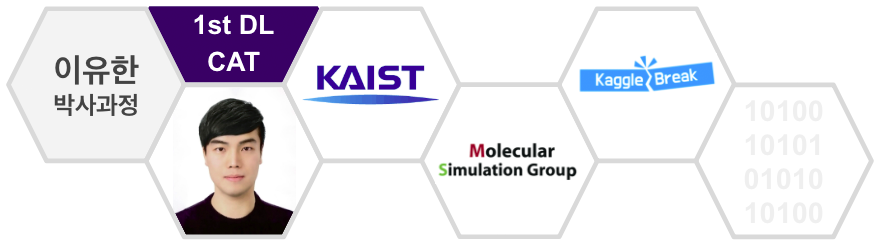
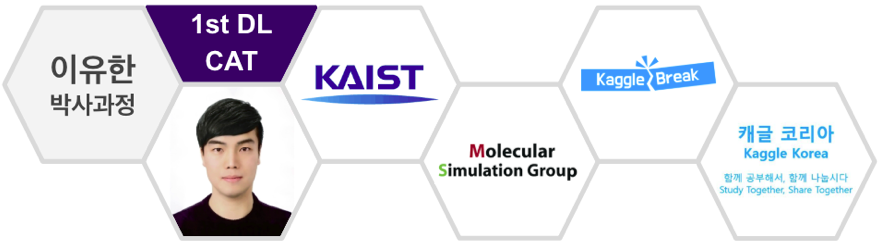
no message

diff --git a/_posts/2018-6-28-ISS_1st_Deep_Learning_Conference_All_Together.md b/_posts/2018-6-28-ISS_1st_Deep_Learning_Conference_All_Together.md
@@ -66,7 +66,7 @@ image: http://tykimos.github.io/warehouse/2018-6-28-ISS_1st_Deep_Learning_Confer
 ![img](http://tykimos.github.io/warehouse/2018-6-28-ISS_1st_Deep_Learning_Together_lyh.png)
 
 #### 연사소개
-현재 KAIST 생명화학공학과에서 박사과정 재학중이며, 전공은 분자 시뮬레이션입니다. 데이터 사이언스, AI를 어디서 배울지 고민하다가 캐글을 알게 된 후, 캐글에 푹 빠져버린 대학원생입니다. 저에게 큰 도움을 준 캐글을 다른 사람들과 함께 하고 싶어 발표자로 참여하게 되었습니다.
+현재 KAIST 생명화학공학과에서 박사과정 재학중이며, 전공은 분자 시뮬레이션입니다. 데이터 사이언스, AI를 어디서 배울지 고민하다가 캐글을 알게 된 후, 캐글에 푹 빠져버린 대학원생입니다. 저에게 큰 도움을 준 캐글을 다른 사람들과 함께 하고 싶어 발표자로 참여하게 되었습니다. 현재 [캐글 코리아](https://www.facebook.com/groups/230717130993727/)을 운영 중에 있습니다.
 
 #### 발표소개
 전세계 데이터를 사랑하는 사람들에게 데이터를 제공하고, 함께 즐길 수 있도록 해주는 캐글을 소개하려고 합니다. 캐글 내 유능한 데이터분석가들의 귀하디 귀한 노하우를 거저!!! 얻을 수 있는 방법을 소개해드릴 겁니다. 또한 자신의 노하우도 거저!!! 나눠주는 방법도 소개해드릴 겁니다. 제 세션에 참석하시는 모든 분들이 캐글러가 되는 게 제 발표 목표입니다! 실제 가입 및 실습을 조금 진행하려고 하니 노트북을 꼭 지참해주세요^^
@@ -76,6 +76,7 @@ image: http://tykimos.github.io/warehouse/2018-6-28-ISS_1st_Deep_Learning_Confer
 
 #### 블로그 및 깃헙
 * 블로그 : 캐글코리아 - [http://kaggle-kr.tistory.com/](http://kaggle-kr.tistory.com/)
+* 유투브 : [https://www.youtube.com/channel/UC--LgKcZVgffjsxudoXg5pQ/?reload=9](https://www.youtube.com/channel/UC--LgKcZVgffjsxudoXg5pQ/?reload=9)
 
 #### 연락처
 * 이메일 : youhanlee@kaist.ac.kr 또는 bshz15@gmail.com
@@ -360,6 +361,8 @@ GTA란 게임을 이용하여 어떻게 주행 데이터를 모으고 학습을 
 
 ![img](http://tykimos.github.io/warehouse/2018-6-28-ISS_1st_Deep_Learning_Together_psm_slide.png)
 
+    MYO의 센서값과 실제 손 모양 이미지를 이용해 GAN모델을 학습시킨다면 이 모델은 MYO의 센서값만으로도 손 모양 이미지를 생성해 낼 수 있을 것 입니다. 이를 이용한다면 많은 분야에 적용하여 사용할 수 있지 않을까요?
+
 #### 발표자료
 (추후 업데이트)
 
@@ -466,13 +469,15 @@ NGLE이라는 QA 전문 회사에서 QA-Test 자동화에 인공지능 적용을
 
 ### 내 손 위의 딥러닝(모바일에 딥러닝 심기)
 ---
-(추후 업데이트)
+![img](http://tykimos.github.io/warehouse/2018-6-28-ISS_1st_Deep_Learning_Together_jmj.png)
 
 #### 연사소개
 안녕하세요, iOS 개발자 미정입니다. ☕를 마시며 하루를 시작하는 걸 좋아합니다. 가끔📱개발을 하며 주로 🐈와 놀거나 잡니다. 최근에는 딥러닝에 관심이 생겨 모바일에 딥러닝을 심기 위한 다양한 방법을 공부하고있습니다 🙂
 
 #### 발표소개
 딥러닝이 컴퓨터를 떠나 모바일에 들어오기 시작했습니다. 서버 통신을 하지 않고 모바일에서 구동되는 딥러닝이 어떤 의미가 있으며, 어떻게 구현할 수 있는지, 어떤 모델들을 심을 수 있는지 개발자 입장에서 정리하고 직접 구현해봤습니다. 실제로 내 손위에서 어떻게 딥러닝이 작동하는지 소개해드리겠습니다.
+
+![img](http://tykimos.github.io/warehouse/2018-6-28-ISS_1st_Deep_Learning_Together_jmj_slide.png)
 
     외부에서 훈련된 딥러닝 모델을 모바일 기기에 심어 모바일 딥러닝을 구현해보았습니다. (쉿, 이건 비밀인데 모바일 자체에서도 훈련이 되기 시작했습니다.)
 
@@ -507,18 +512,22 @@ NGLE이라는 QA 전문 회사에서 QA-Test 자동화에 인공지능 적용을
 ---
 ### 상세 프로그램
 
-(추후공지)
+아래 스케줄표는 변동될 수 있습니다.
 
 |구분|강당|사이언스홀|대회의실|
 |-|-|-|-|
-|10:00~11:00|주제:연사|주제:연사|주제:연사|
-|11:00~12:00|주제:연사|주제:연사|주제:연사|
-|12:00~13:00|주제:연사|주제:연사|주제:연사|
-|13:00~14:00|주제:연사|주제:연사|주제:연사|
-|14:00~15:00|주제:연사|주제:연사|주제:연사|
-|15:00~16:00|주제:연사|주제:연사|주제:연사|
-|16:00~17:00|주제:연사|주제:연사|주제:연사|
-|17:00~18:00|주제:연사|주제:연사|주제:연사|
+|09:50~10:10(20분)|발표자소개|발표자소개|핸즈온랩|
+|10:10~10:55(45분)|신경인,박은수,이하림|이지민|핸즈온랩|
+|10:55~11:15(20분)|전태균|김홍배|핸즈온랩|
+|11:15~12:00(45분)|유재준|이유한|핸즈온랩|
+|12:00~13:00(60분)|점심|점심|점심|
+|13:00~13:45(45분)|차금강|송규예|핸즈온랩|
+|13:45~14:30(45분)|이동민|박세진|핸즈온랩|
+|14:30~15:15(45분)|박상민|정원석|핸즈온랩|
+|15:15~16:00(45분)|유용균|김준태|핸즈온랩|
+|16:00~16:20(20분)|곽병권|김영하|핸즈온랩|
+|16:20~17:05(45분)|김태영|전미정|핸즈온랩|
+|17:05~17:50(45분)|류성옥|김정대|핸즈온랩|
 
 ---
 
